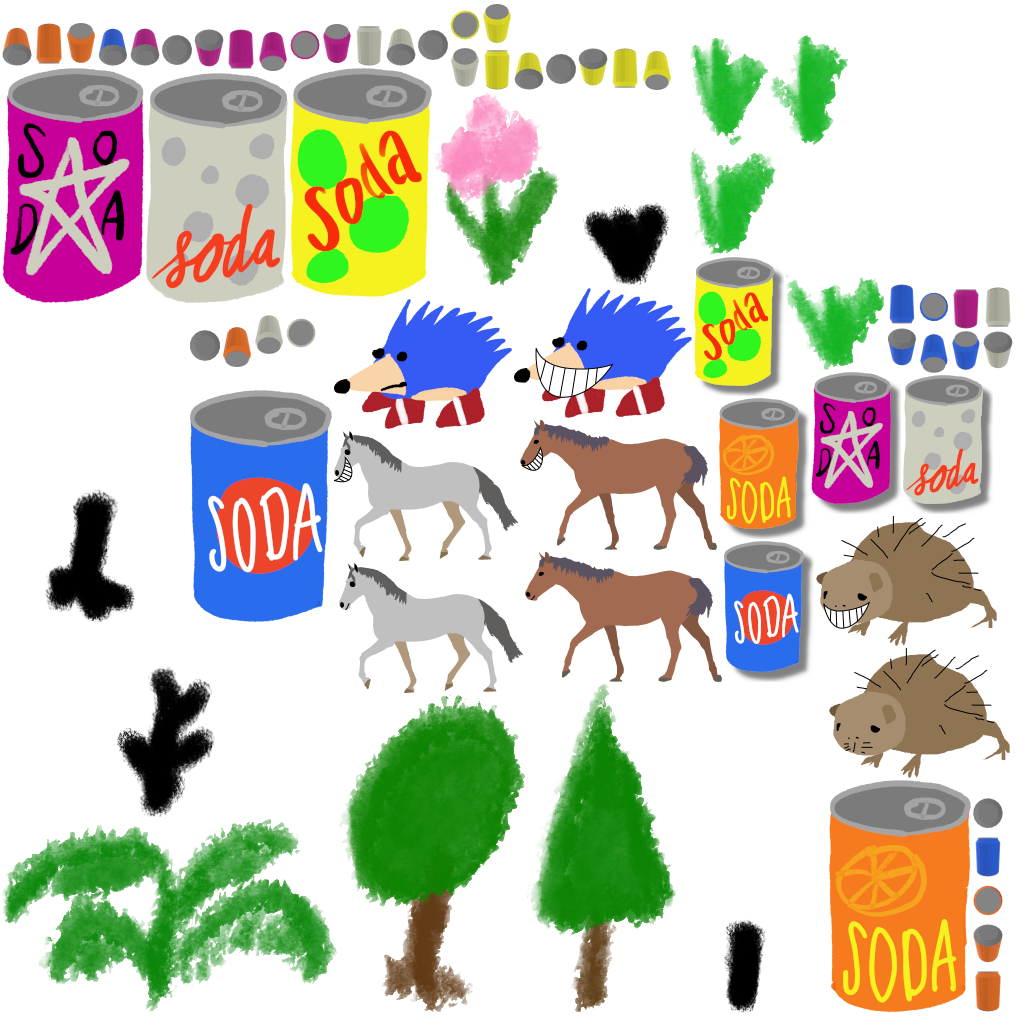
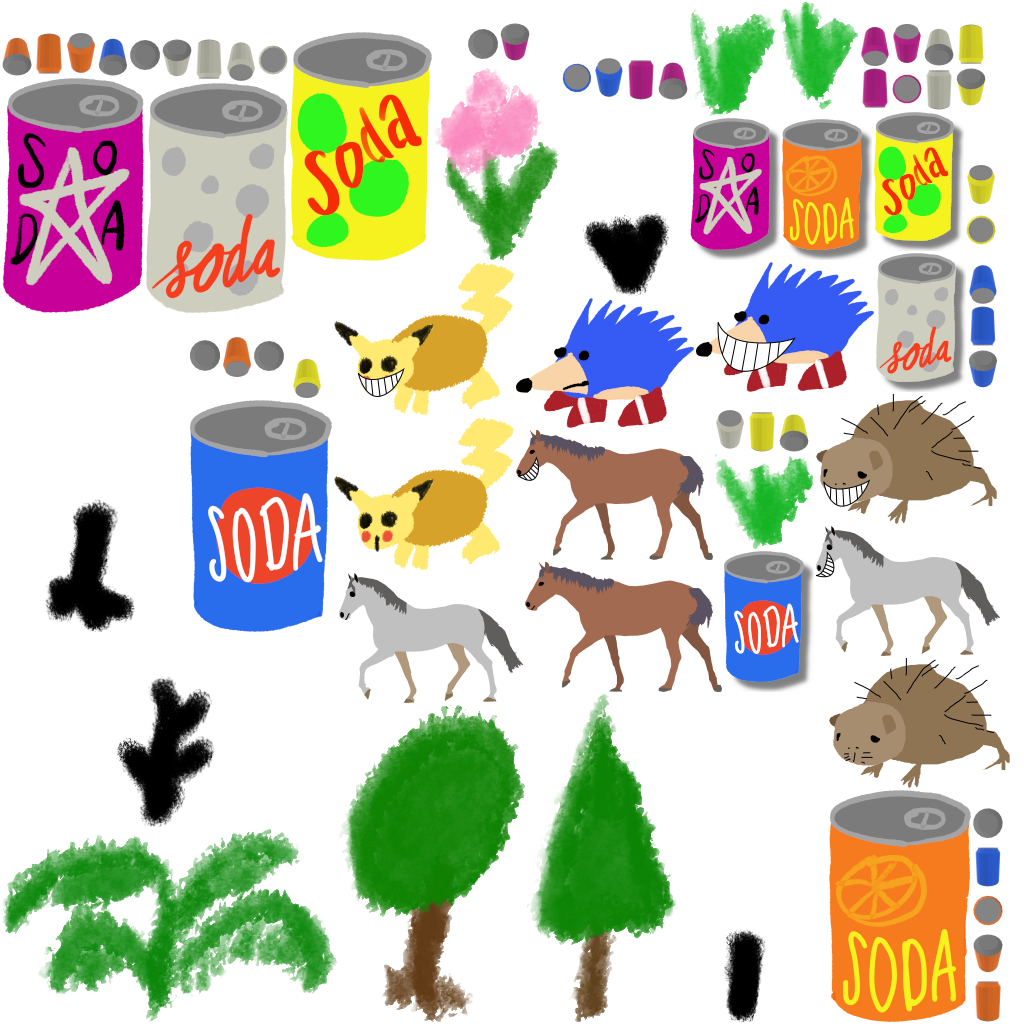
Add AnimalType.YELLOW_RAT

diff --git a/core/src/nz/co/canadia/coolsodacan/Animal.java b/core/src/nz/co/canadia/coolsodacan/Animal.java
@@ -30,10 +30,11 @@ public class Animal implements GameObject, Hittable, Comparable<GameObject>, Com
     private float shakeElapsed;
 
     private enum AnimalType {
-        COCO    (   "coco",     "coco_smile"),
-        HEDGEHOG (  "hedgehog", "hedgehog_smile"),
-        HORSE01 (   "horse01",  "horse01_smile"),
-        HORSE02 (   "horse02",  "horse02_smile");
+        COCO        ("coco",        "coco_smile"),
+        HEDGEHOG    ("hedgehog",    "hedgehog_smile"),
+        HORSE01     ("horse01",     "horse01_smile"),
+        HORSE02     ("horse02",     "horse02_smile"),
+        YELLOW_RAT  ("yellow_rat",  "yellow_rat_smile");
 
         private final String textureName;
         private final String hitTextureName;
